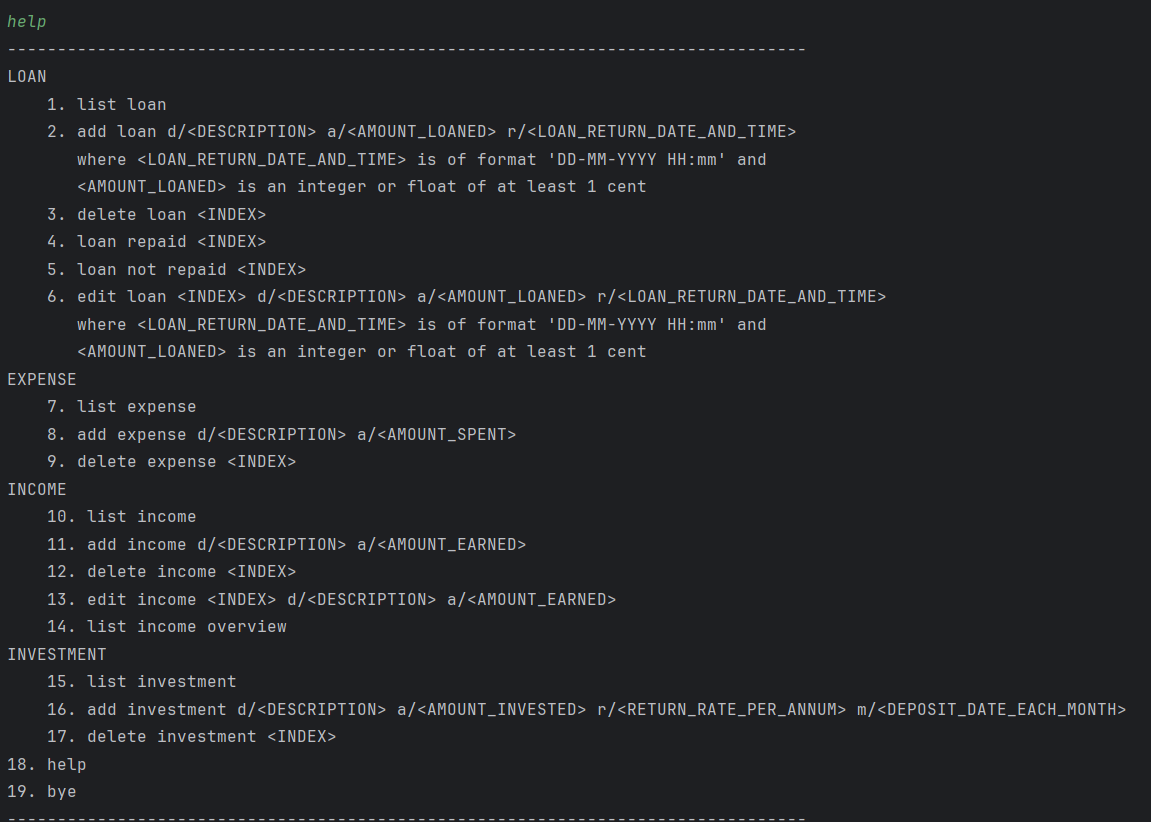
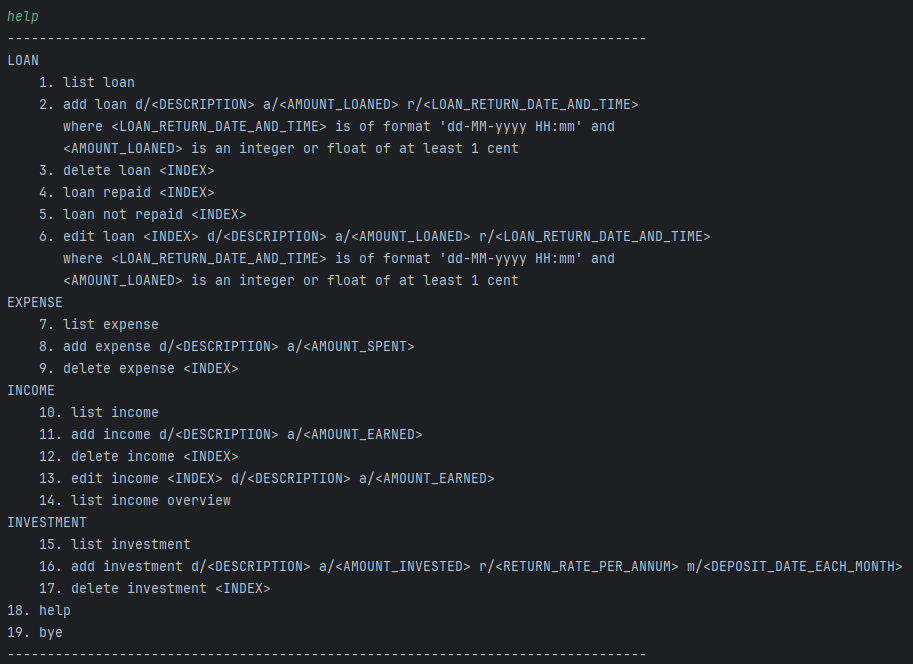
Update help command section in UG

Changed region(s): [[0.0, 0.4518, 0.9814, 1.0], [0.0, 0.0, 0.7667, 0.4518]]

diff --git a/docs/UserGuide.md b/docs/UserGuide.md
@@ -358,7 +358,7 @@ record on a single line.
 | Edit a Loan            | `edit loan <INDEX> d/<DESCRIPTION> a/<AMOUNT_LOANED> r/<LOAN_RETURN_DATE_AND_TIME>`<br/> e.g. `edit loan 1 d/loan1 a/10.55 r/10-10-2056 23:59`                         |
 | List Expense           | `list expense`                                                                                                                                                         |
 | Add an Expense         | `add expense d/<DESCRIPTION> a/<AMOUNT_SPEND>`<br/> e.g. `add expense d/food a/6`                                                                                      |
-| Delete An Expense      | `delete expense <INDEX>`<br/> e.g. `delete expense 2`                                                                                                                  |
+| Delete an Expense      | `delete expense <INDEX>`<br/> e.g. `delete expense 2`                                                                                                                  |
 | List Income            | `list income`                                                                                                                                                          |
 | View Income Overview   | `list income overview`                                                                                                                                                 |
 | Add Income             | `add income d/<DESCRIPTION> a/<AMOUNT_EARNED>`<br/> e.g. `add income d/salary a/100`                                                                                   |
@@ -367,4 +367,5 @@ record on a single line.
 | List Investments       | `list investment`                                                                                                                                                      |
 | Add an Investment      | `add investment d/<DESCRIPTION> a/<AMOUNT_INVESTED_MONTHLY> r/<RETURN_RATE_PER_ANNUM> m/<DEPOSIT_DATE_EACH_MONTH>`<br/> e.g. `add investment d/moomoo a/1000 r/3 m/21` |
 | Delete an Investment   | `delete investment <INDEX_TO_DELETE>`<br/> e.g. `delete investment 3`                                                                                                  |
+| View all Commands      | `help`                                                                                                                                                                 |
 | Exit Program           | `bye`                                                                                                                                                                  |
